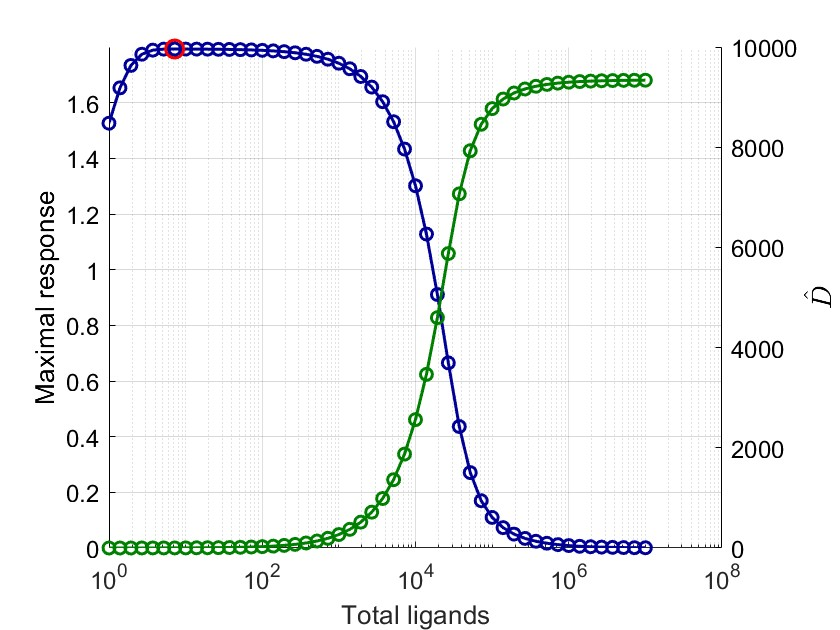
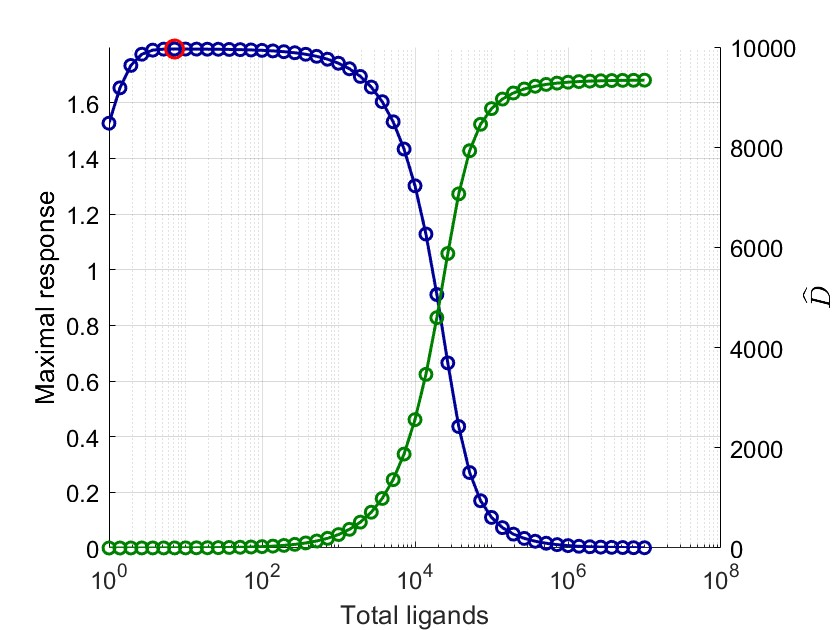
n

diff --git a/Sensitivity Analysis/Comprobaciones/KPC_Emax.m b/Sensitivity Analysis/Comprobaciones/KPC_Emax.m
@@ -32,12 +32,15 @@ plot(tspan,x(:,4));
 title('D')
 hold on
 
-% CT = x(:,5)+x(:,6)+x(:,7);
-% figure
-% plot(tspan, CT);
-% title('CT')
-% hold on
-% yline(TT, '--r', ['TT = ', num2str(TT)]); % Línea horizontal en TT con etiqueta
+CT = x(:,5)+x(:,6)+x(:,7);
+figure
+plot(tspan, CT);
+title('CT')
+hold on
+yline(TT, '--r', ['TT = ', num2str(TT)]); % Línea horizontal en TT con etiqueta
+
+
+%%
 
 % Vector logarítmico de valores de x0(2)
 x0_values = logspace(0, 7, N);
@@ -64,6 +67,8 @@ for i = 1:N
     max_D_values(i) = x(end,4);
 
 end
+
+%%
 
 % Graficar los resultados
 figure;
@@ -110,7 +115,7 @@ semilogx(x0_values(idx_max), max_Tp_values(idx_max), 'ro', 'MarkerSize',9, 'Line
 % Segundo eje (derecha) - segunda variable
 yyaxis right
 semilogx(x0_values, max_D_values, '-o', 'LineWidth', 1.5, 'MarkerSize', 6, 'Color', [0 0.5 0]);
-ylabel('$\hat{D}$','Interpreter','latex','FontSize',14,'FontName','Helvetica');
+ylabel('$\widehat{D}$','Interpreter','latex','FontSize',14,'FontName','Helvetica');
 
 % Colorear ambos ejes en negro (sin colores)
 ax = gca;
@@ -140,6 +145,9 @@ hold on
 % semilogx(x0_values, max_Tp_valuesSteadyState, '-o');
 % xlabel('Total ligands');
 % ylabel('Maximal response SS');
+
+%%
+
 
 kon = p(1);
 k_3 = p(2);
